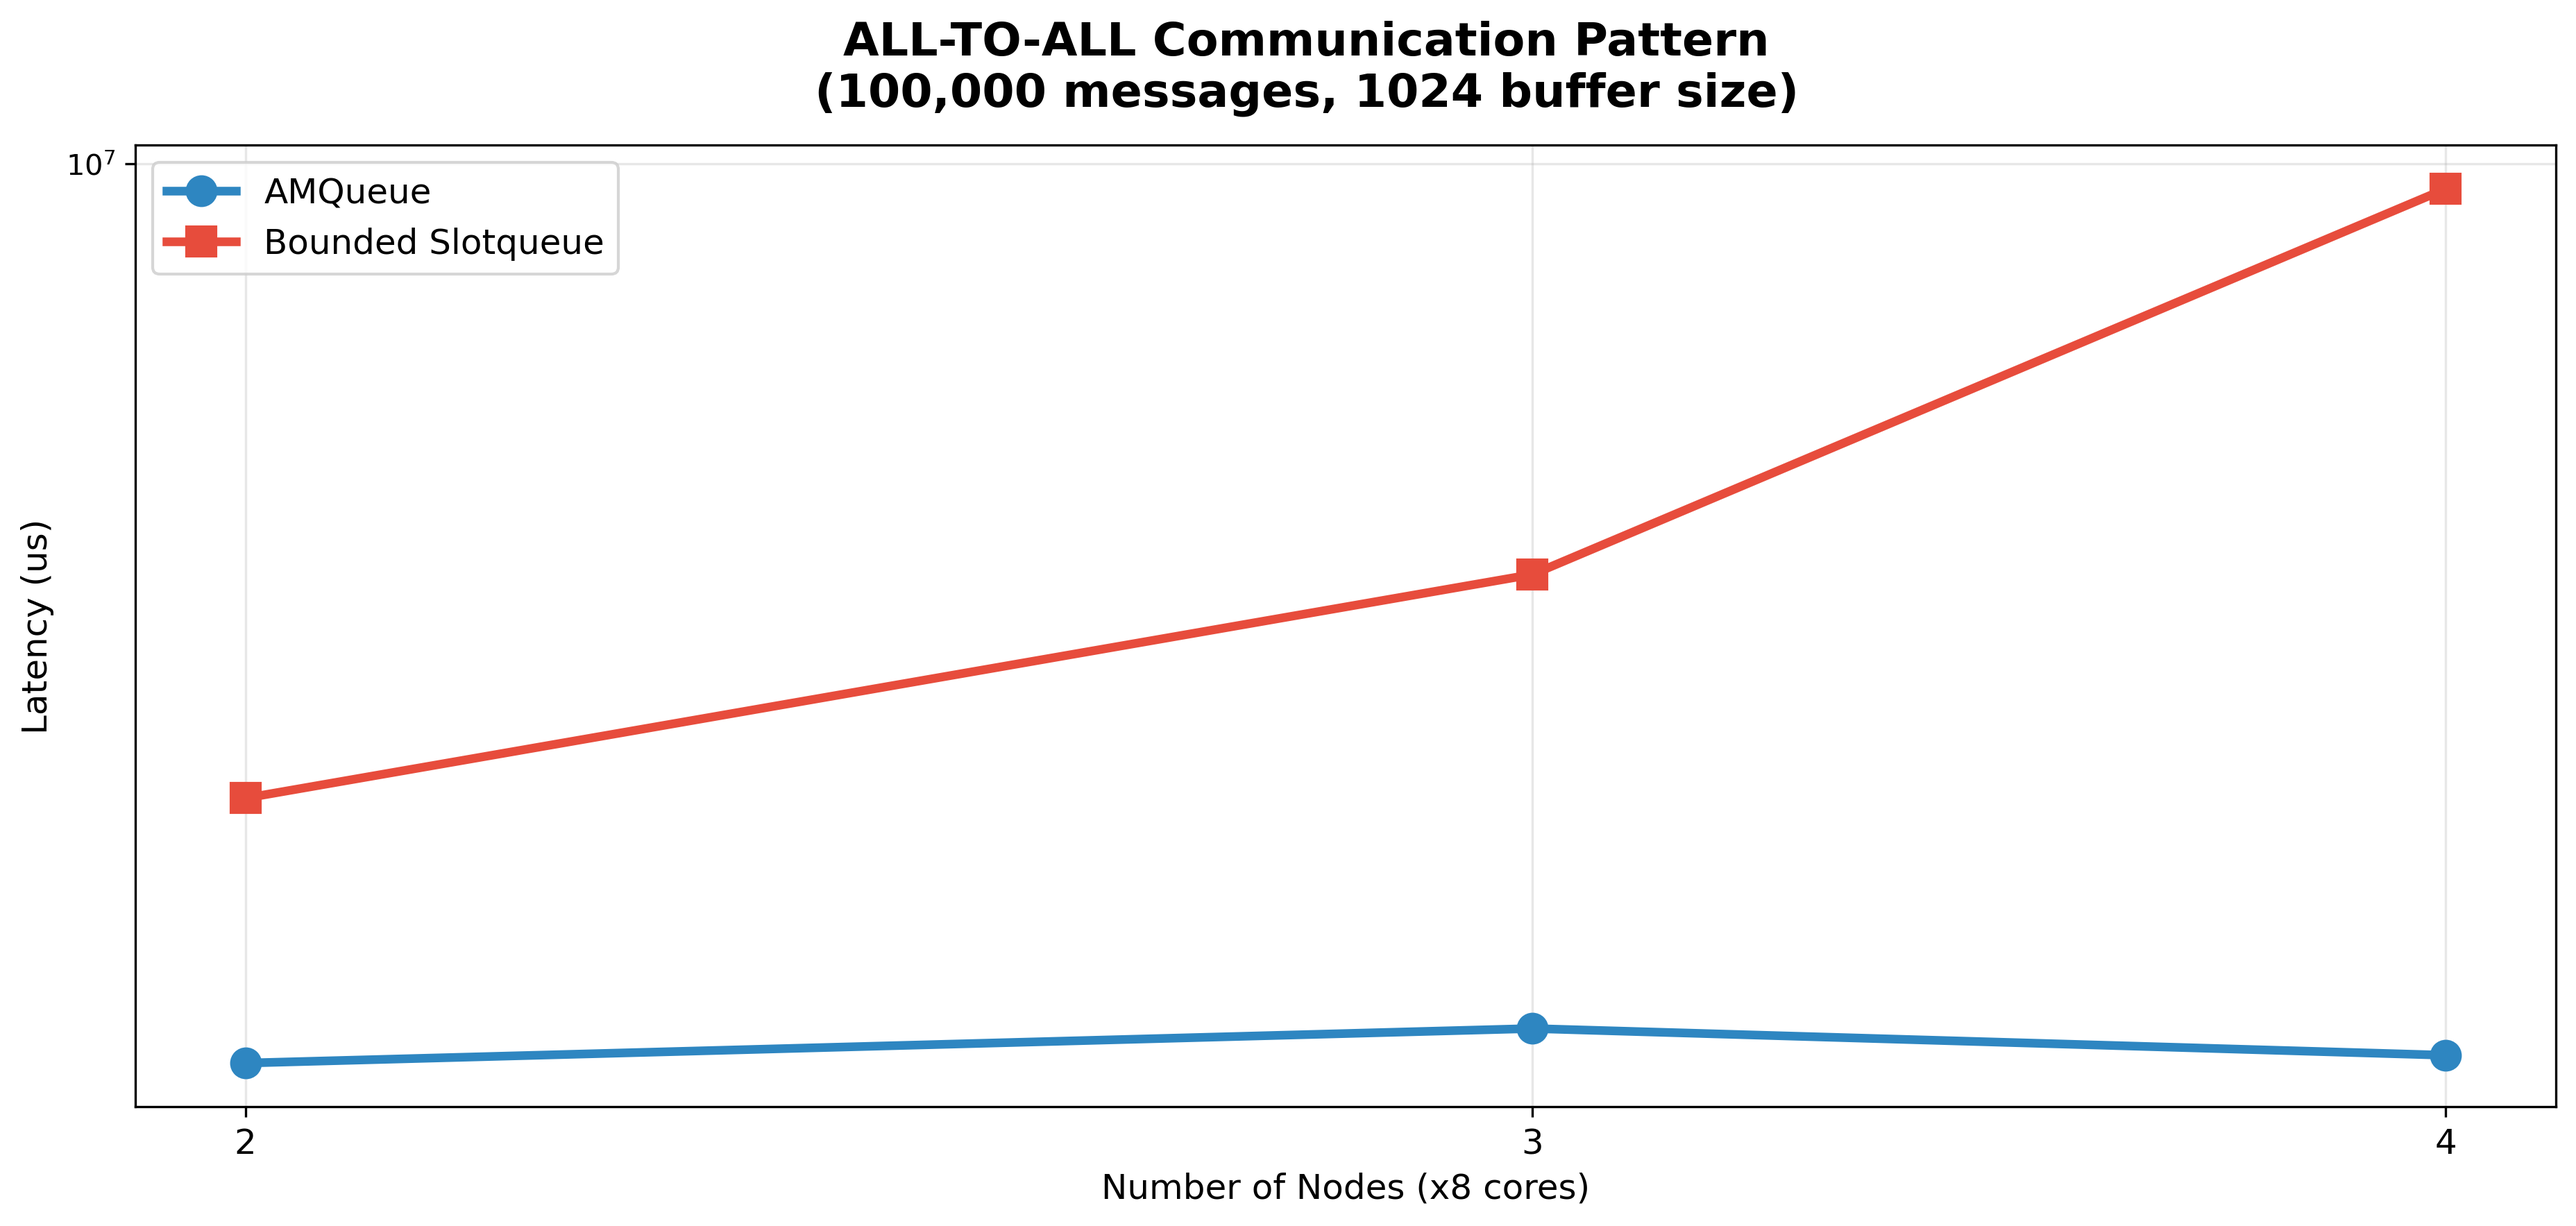
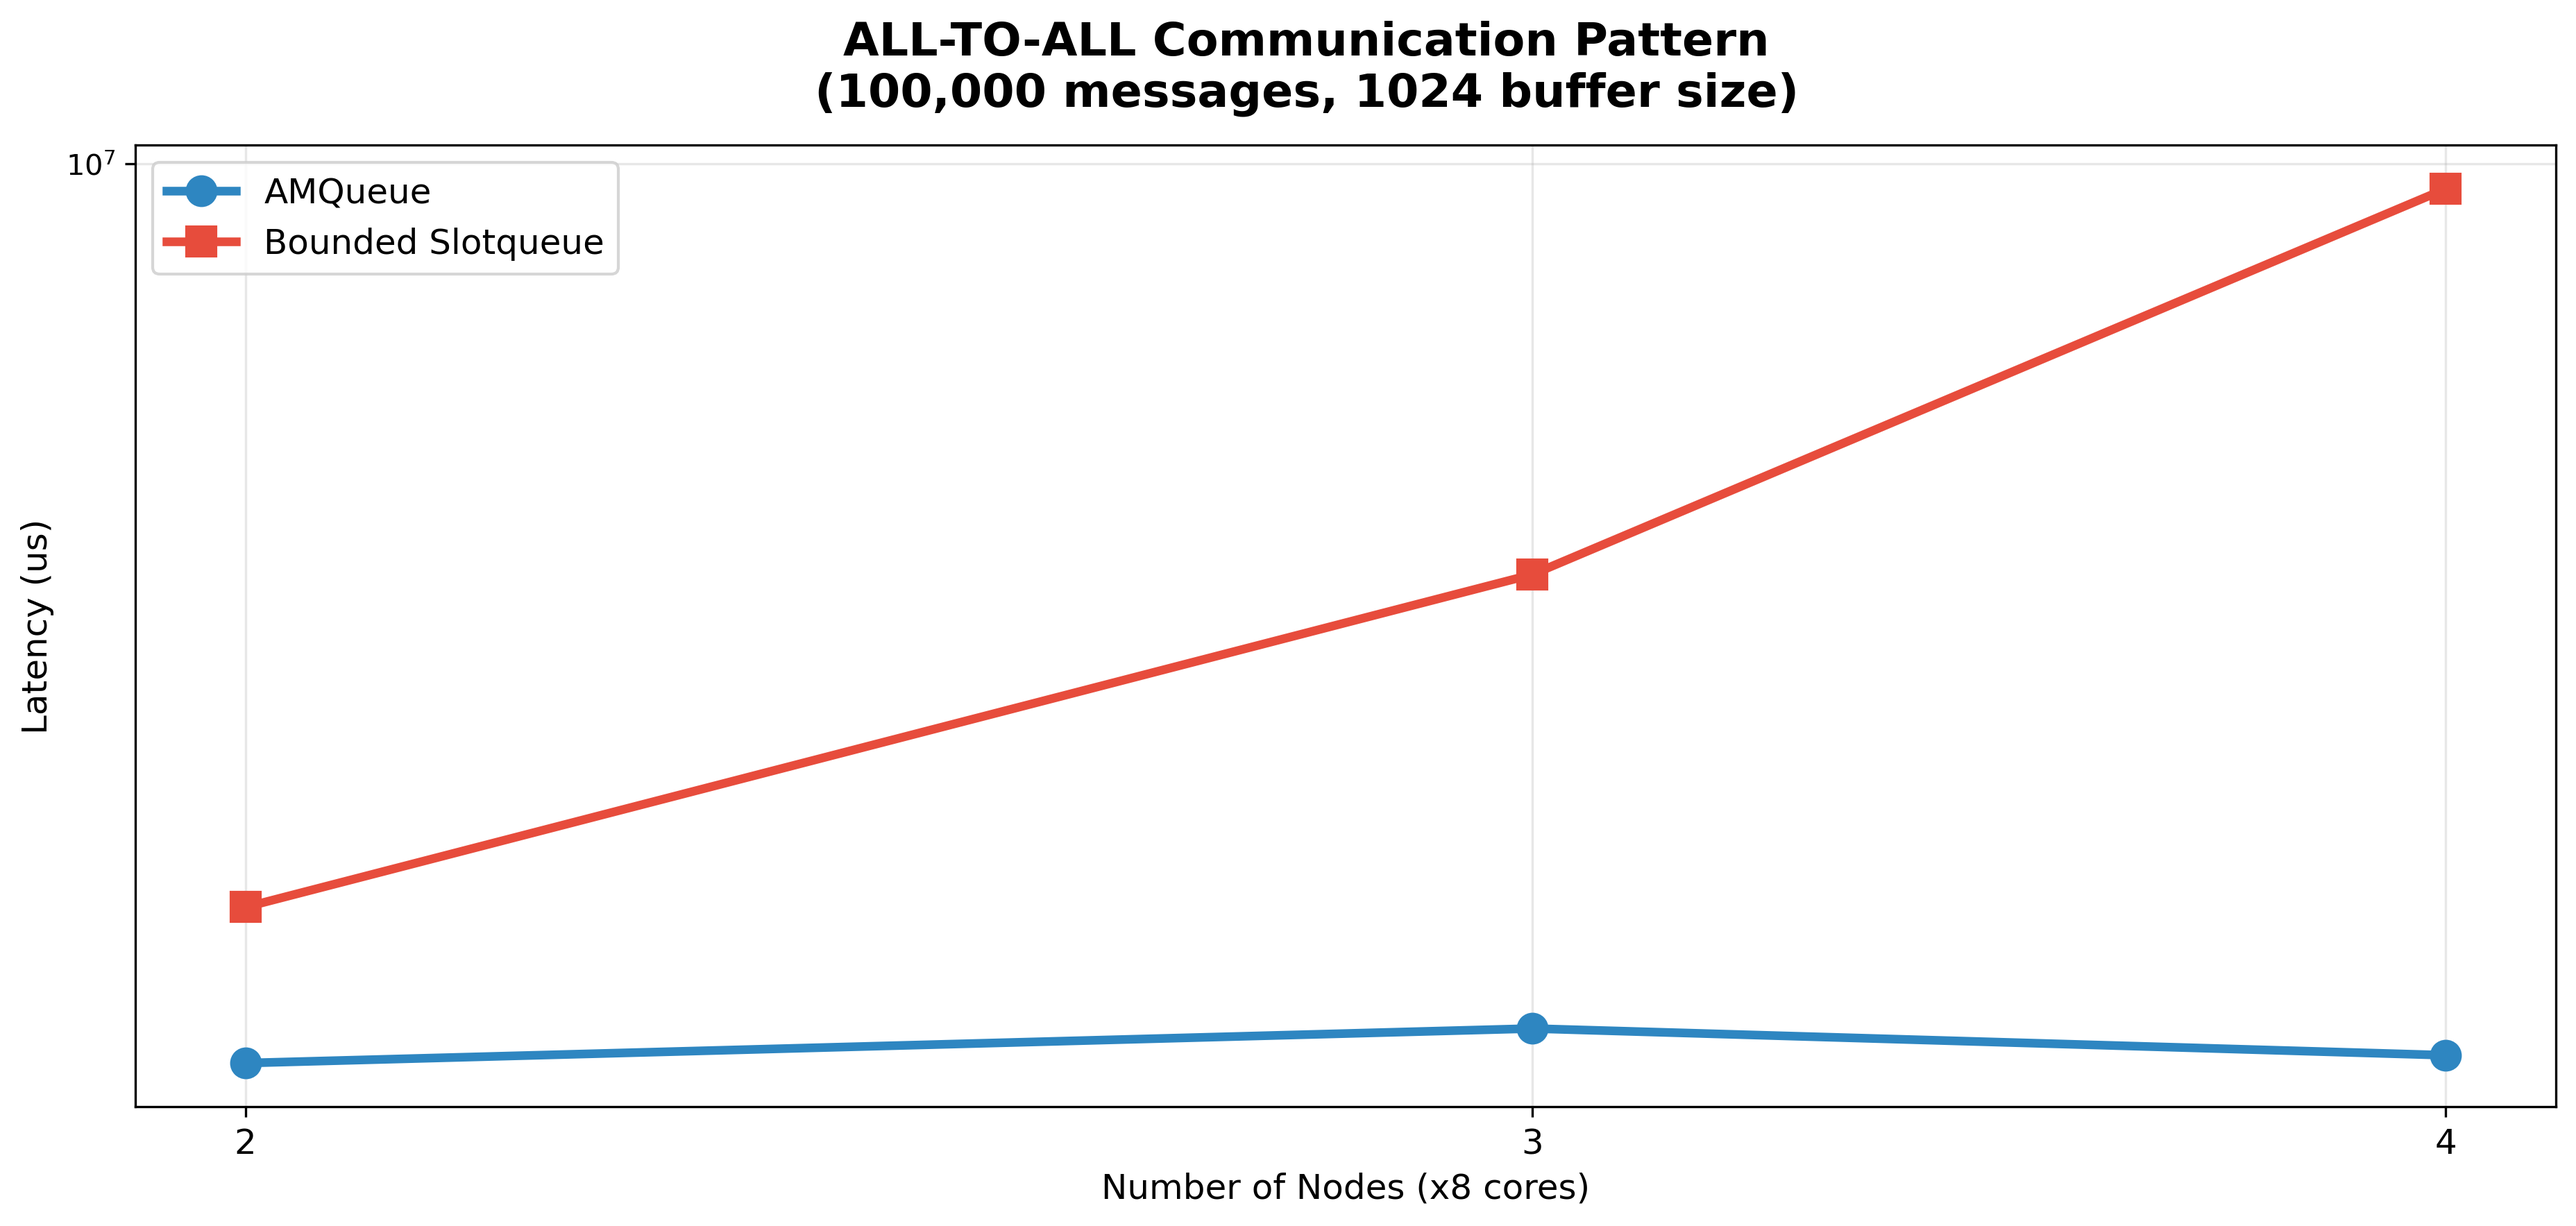
fix(viz): cm4 data

diff --git a/viz/apps/dash/cm4/by-nodes.py b/viz/apps/dash/cm4/by-nodes.py
@@ -29,16 +29,16 @@ sopnop_data = {
 
 sq_data = {
     "all-to-all": [
-        3.31318e06,
+        2.74057e06,
         4.89025e06,
         9.56704e06,
     ],
     "root": [
-        6.59583e07,
+        6.04156e06,
         1.10507e07,
         1.91504e07,
     ],
-    "scatter": [819871, 97756, 115981],
+    "scatter": [69344, 97756, 115981],
 }
 
 # Colors and styling
